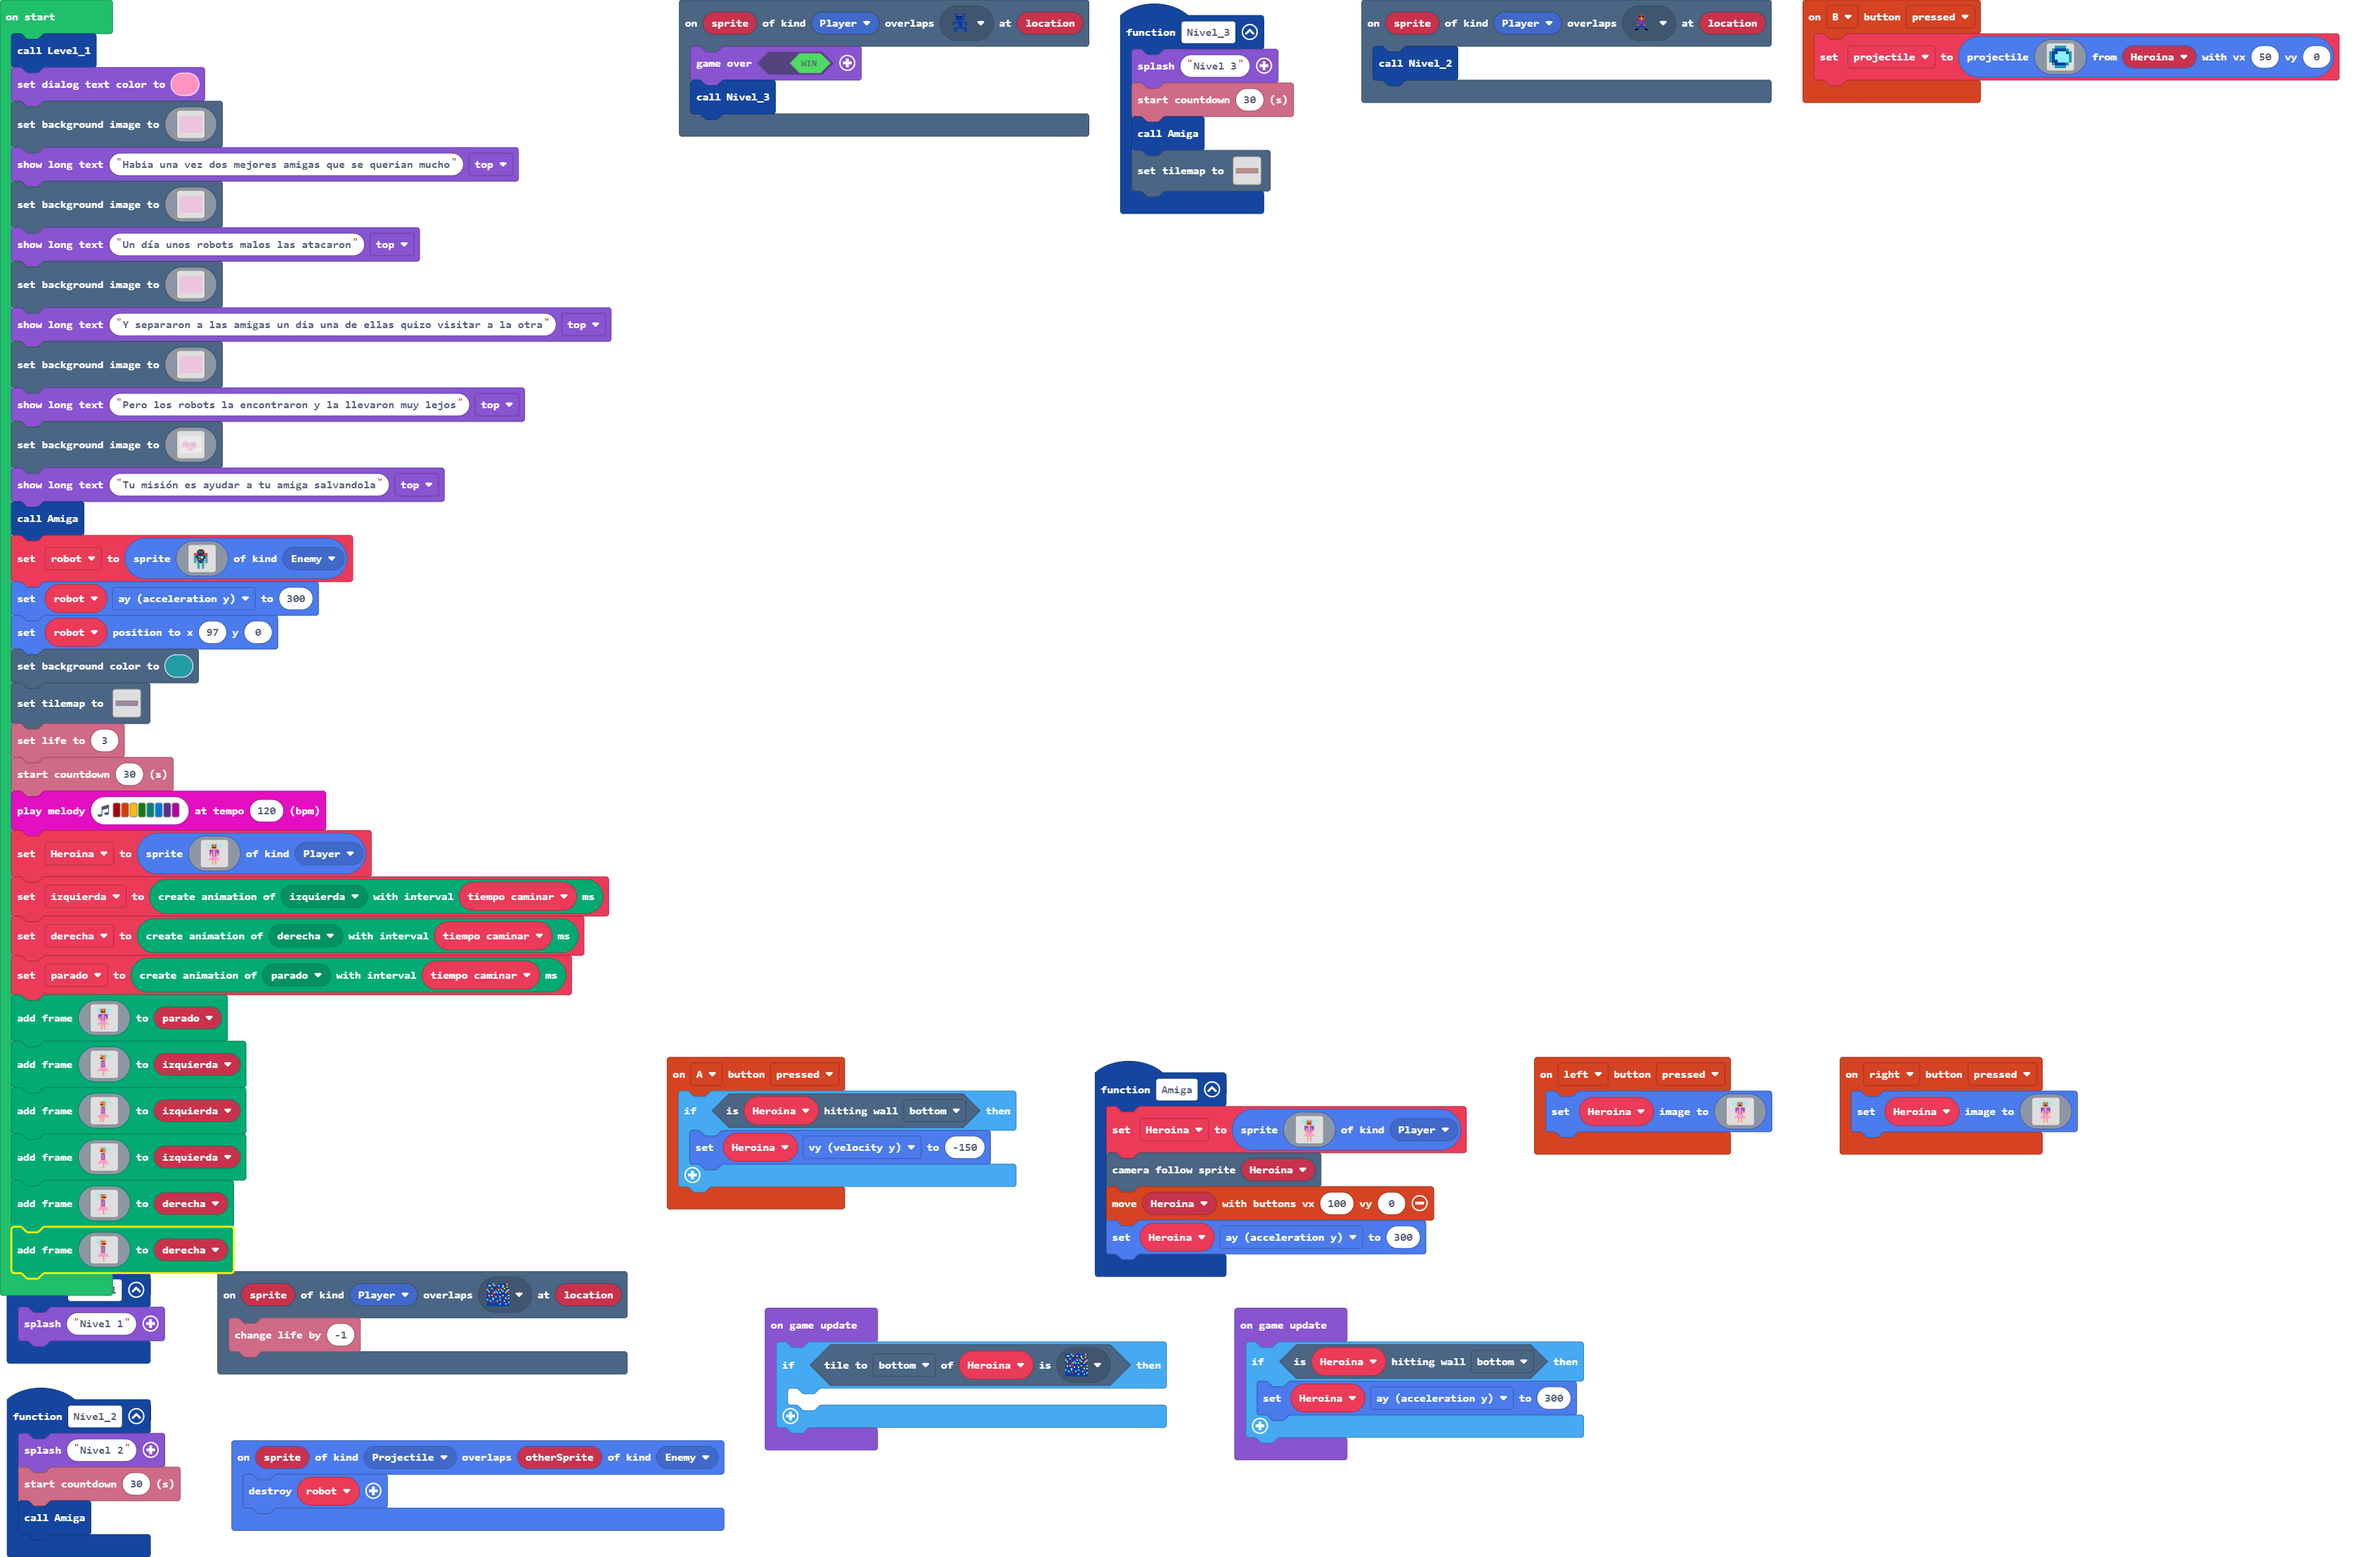
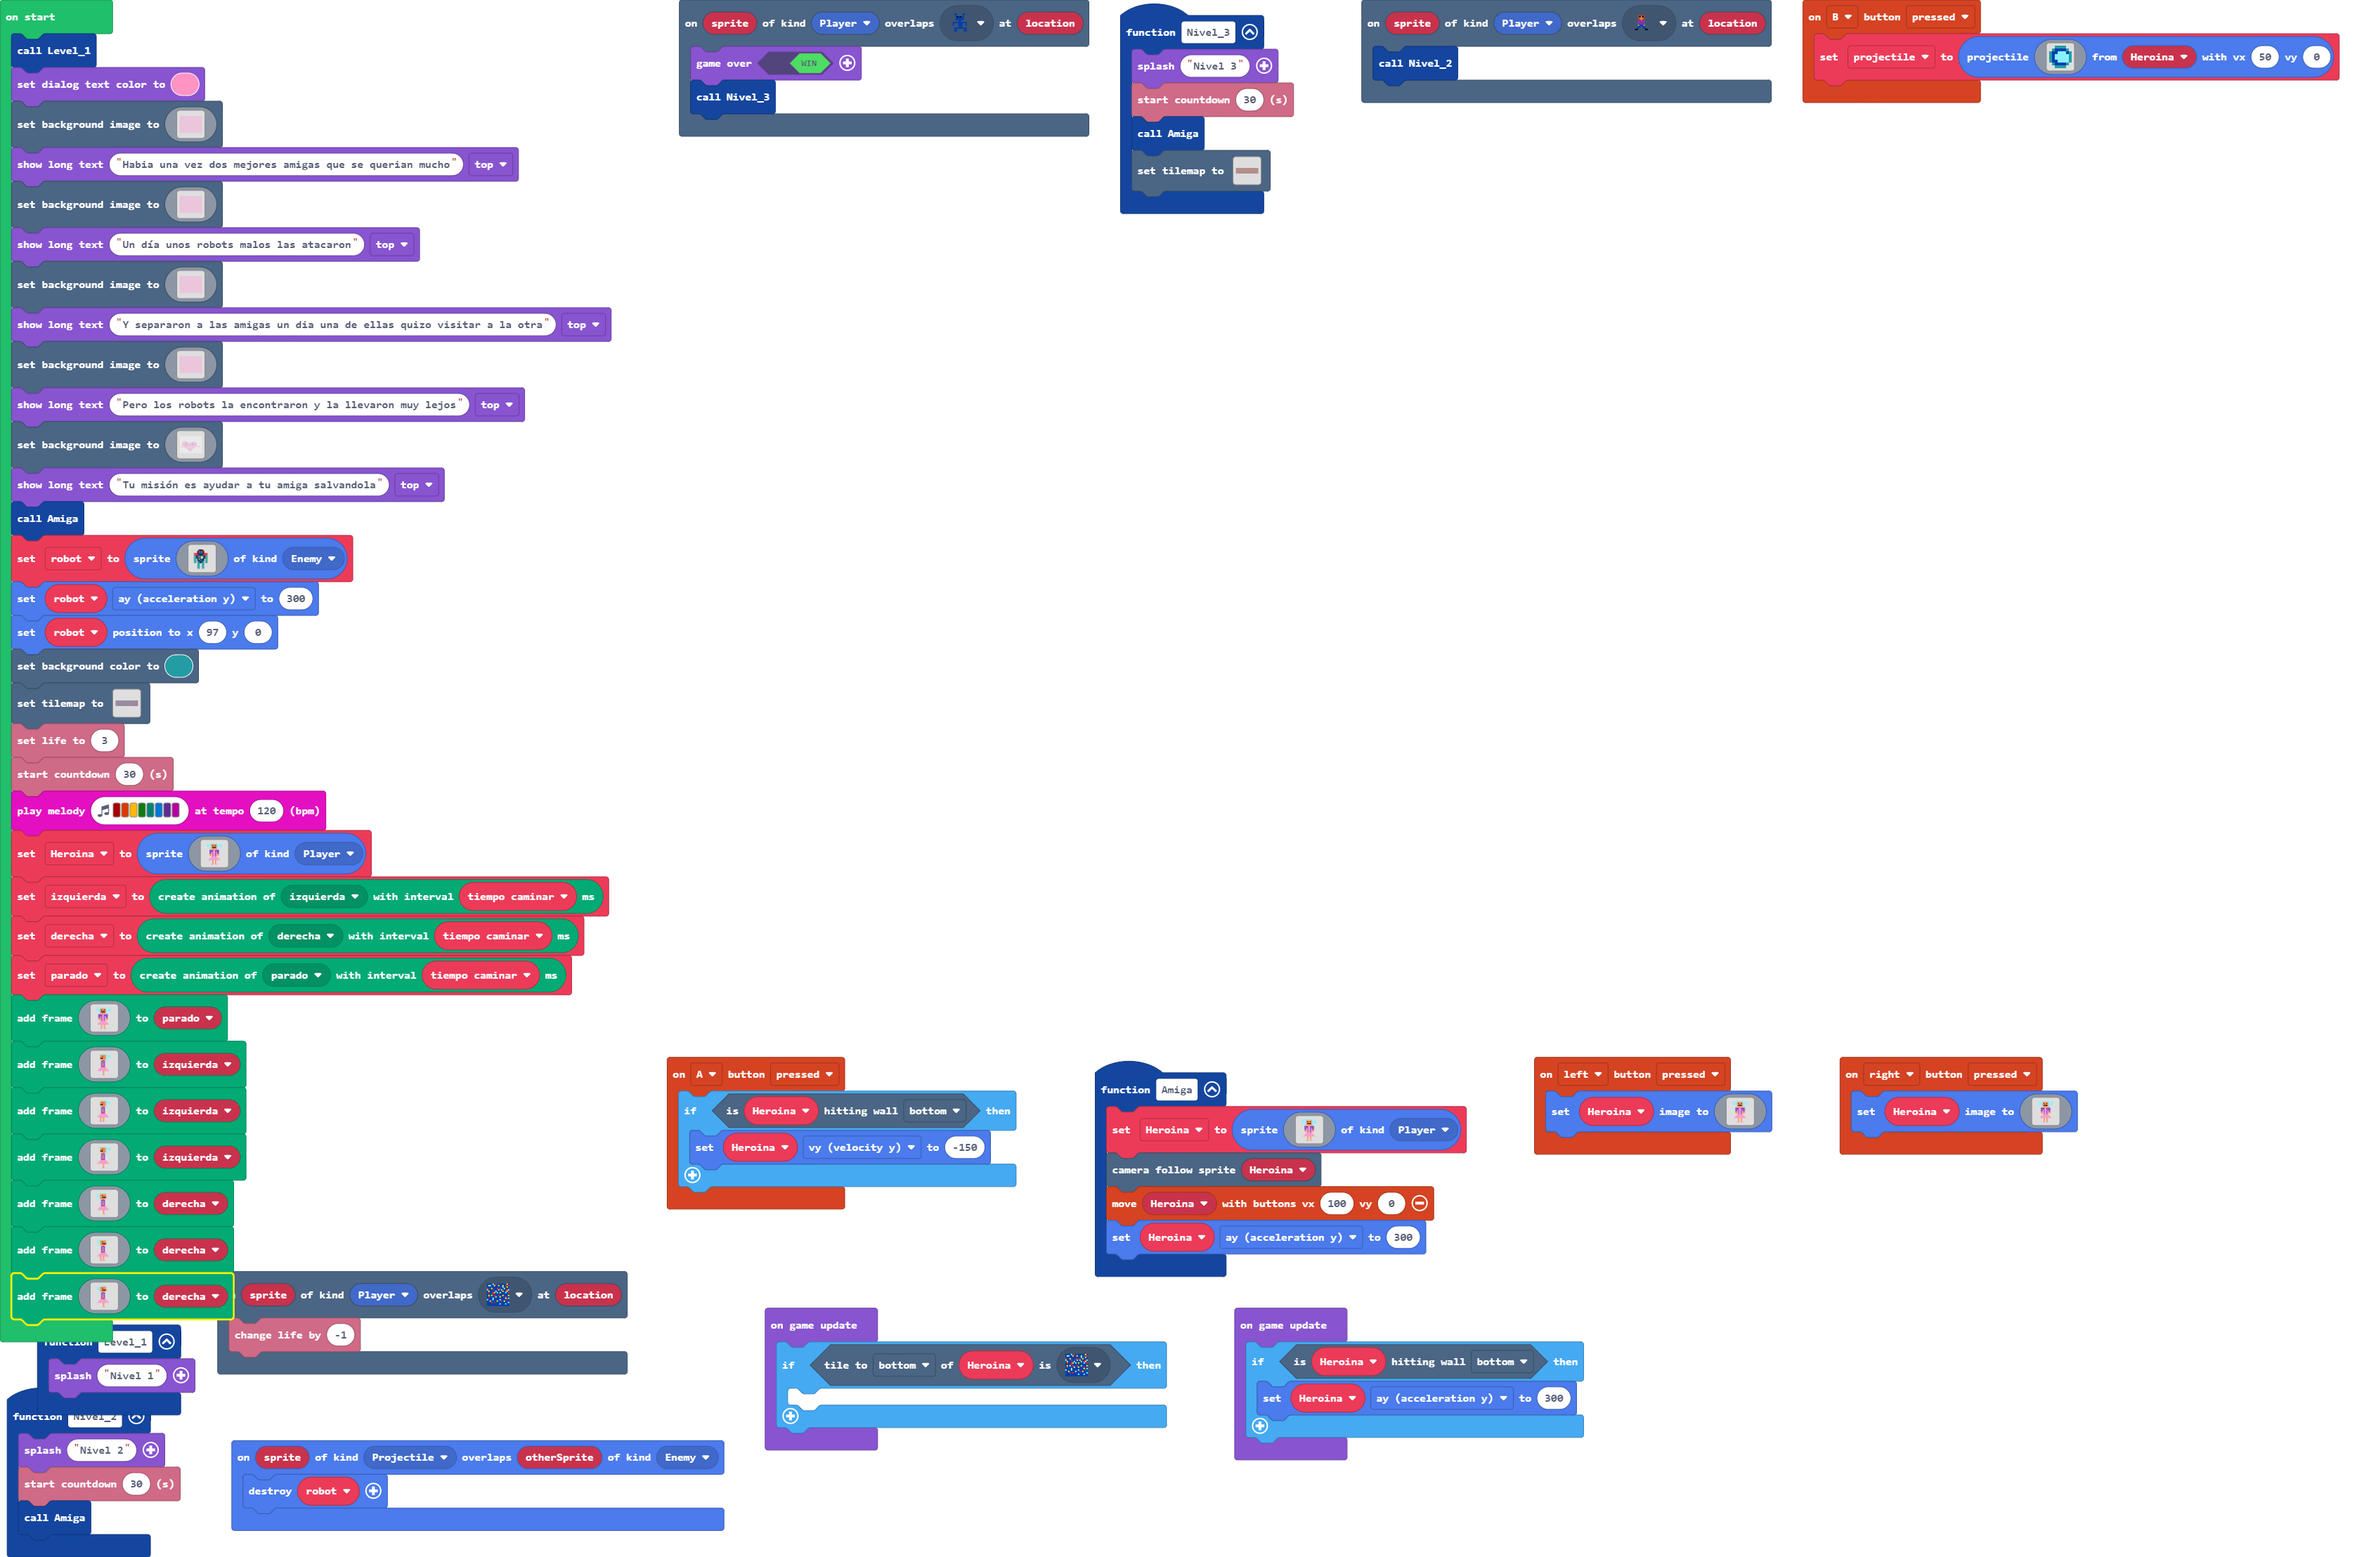
puse mas animacion

Changed region(s): [[0.0, 0.8096, 0.1242, 0.9341]]

diff --git a/main.ts b/main.ts
@@ -1005,6 +1005,32 @@ derecha.addAnimationFrame(img`
     . . . 3 3 3 3 3 3 3 3 . . . . . 
     . . 3 3 3 3 3 3 3 3 3 3 . . . . 
     . 3 3 3 3 3 3 3 3 3 3 3 3 . . . 
+    . . . . 4 . . 4 . . . . . . . . 
+    . . . . 4 . . 4 . . . . . . . . 
+    . . . . 4 . . 4 . . . . . . . . 
+    . . . . 4 . . 4 . . . . . . . . 
+    . . . . 3 3 . 3 3 . . . . . . . 
+    `)
+derecha.addAnimationFrame(img`
+    . . . . . . . . . . . . . . . . 
+    . . . 9 9 9 9 9 9 9 . . . . . . 
+    9 9 . 9 4 4 4 4 4 4 . . . . . . 
+    9 9 9 9 4 4 f 4 4 4 . . . . . . 
+    9 9 . 9 4 4 4 4 4 4 . . . . . . 
+    . . . 9 4 4 f f f f . . . . . . 
+    . . . 9 4 4 4 4 4 4 . . . . . . 
+    . . 9 . . . 4 4 . . . . . . . . 
+    . . 9 . . a a a a . . . . . . . 
+    . . . . . a b b a . . . . . . . 
+    . . . . . a b b a . . . . . . . 
+    . . . . . a b b a . . . . . . . 
+    . . . . . a 4 4 a . . . . . . . 
+    . . . . . a 4 4 a . . . . . . . 
+    . . . . . a a a a . . . . . . . 
+    . . . . 3 3 3 3 3 3 . . . . . . 
+    . . . 3 3 3 3 3 3 3 3 . . . . . 
+    . . 3 3 3 3 3 3 3 3 3 3 . . . . 
+    . 3 3 3 3 3 3 3 3 3 3 3 3 . . . 
     . . . . . . . 4 . . . . . . . . 
     . . . . . . . 4 . . . . . . . . 
     . . . . . . . 4 . . . . . . . . 
